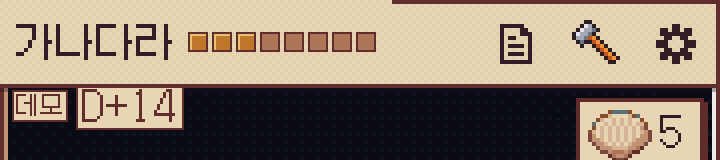
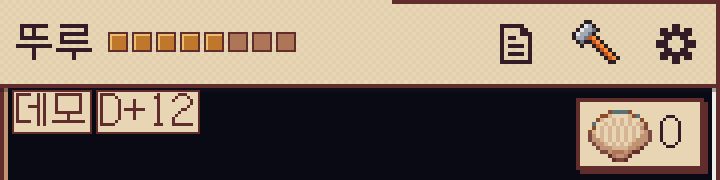
상태 줄: '데모' · 'D+N' 꼬리표 글자 16 px (같은 모양으로 나란히)
Claude-Session: https://claude.ai/code/session_01Tq2y4RoYgpT5jfRgYAa5sm

diff --git a/css/style.css b/css/style.css
@@ -1762,6 +1762,11 @@ html.intro-on .meal-call { opacity: 0; visibility: hidden; }
   :root[data-layout="one"][data-font="pixel"] #status .day-n { top: calc(100% + 3px); padding: 1px 2px; border: 0; border-radius: 0; box-shadow: inset 0 0 0 1px var(--line); font-family: var(--f-meta); font-weight: 400; font-size: var(--fs-u12, 12px); line-height: calc(var(--fs-u12, 12px) + 2px); }
 }
 @media (max-width: 449px) { :root[data-layout="one"] #status .brain-tag:not([hidden]) + .day-n { left: 38px; } }
+/* 11-22 (점검: 보이는 글자는 모두 16 px 이상): '데모' · 'D+N' 꼬리표 글자를 16 px 로 (모양은 둘이 같다 — 테 1 px · 작은 안쪽 여백). 폰에선 바 바로 아래 왼쪽에 나란히 */
+#status .brain-tag, #status .day-n { font-size: 16px; line-height: 20px; }
+:root[data-font="pixel"] #status .brain-tag, :root[data-font="pixel"] #status .day-n { font-size: var(--fs-m16, 16px); line-height: calc(var(--fs-m16, 16px) + 2px); }
+@media (max-width: 599px) { :root[data-layout="one"] #status .day-n { font-size: 16px; line-height: 20px; } :root[data-layout="one"][data-font="pixel"] #status .day-n { font-size: var(--fs-m16, 16px); line-height: calc(var(--fs-m16, 16px) + 2px); } }
+@media (max-width: 449px) { :root[data-layout="one"] #status .brain-tag:not([hidden]) + .day-n { left: 47px; } :root[data-layout="one"][data-font="pixel"] #status .brain-tag:not([hidden]) + .day-n { left: 50px; } }
 /* 11-22 계단 그림 (js/scene3d.js stairCue): 계단이 화면 밖일 때 그쪽 가장자리에 흐린 계단 그림 + 픽셀 화살표. 글자 없음 · 누르면 화면이 계단 쪽으로 밀린다 (44px 누르는 곳) */
 .stair-cue { position: absolute; left: 0; z-index: 8; width: 44px; height: 44px; display: flex; align-items: center; justify-content: flex-start; gap: 1px; padding-left: 2px; box-sizing: border-box; opacity: .72; cursor: pointer; touch-action: manipulation; -webkit-tap-highlight-color: transparent; }
 .stair-cue[hidden] { display: none; }
